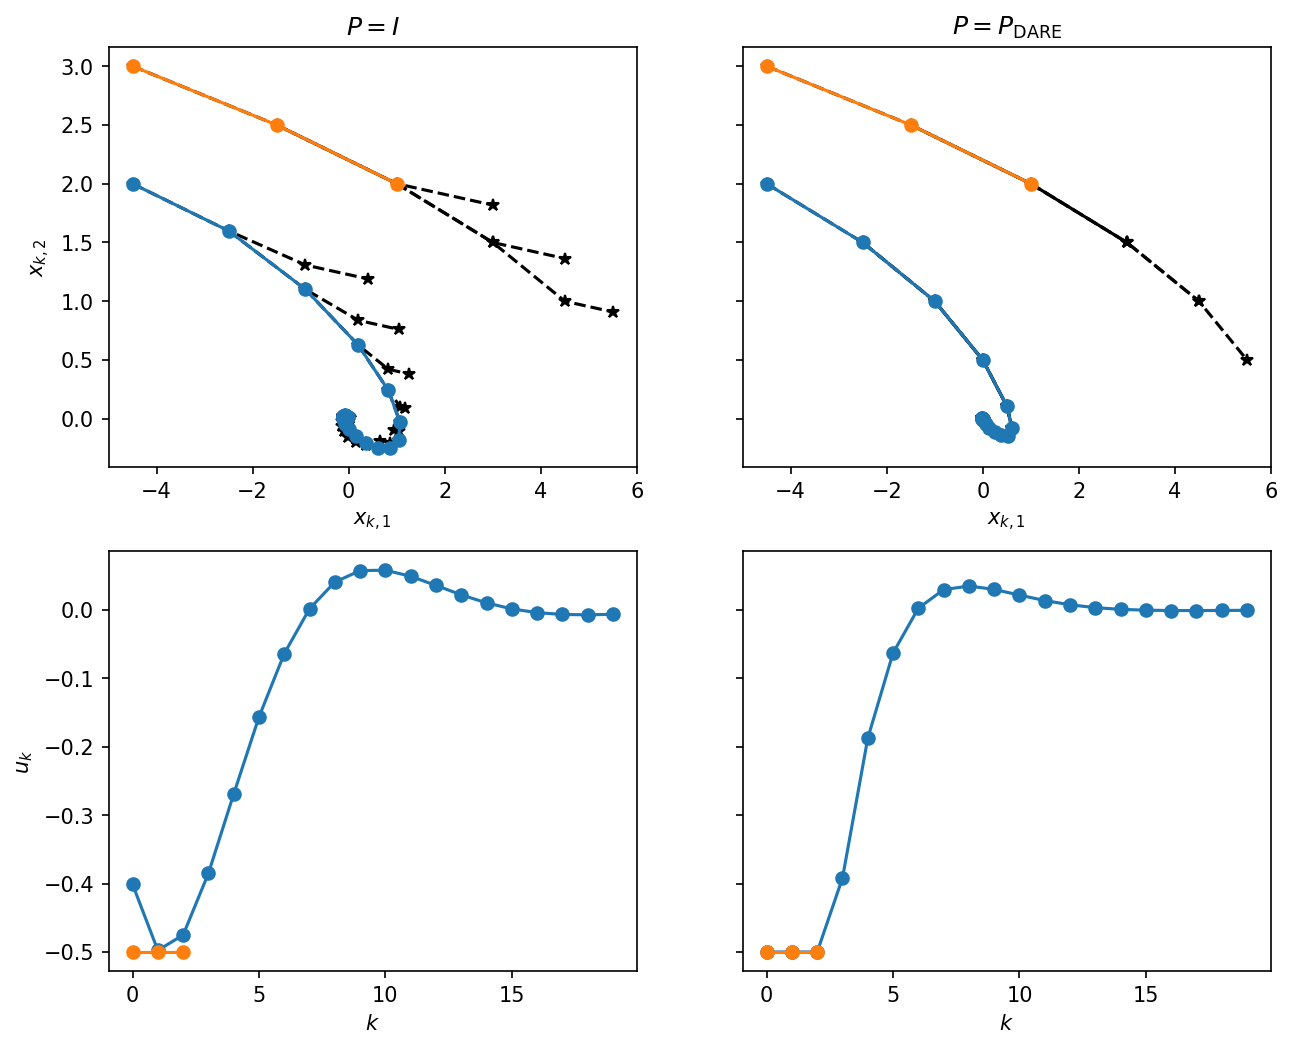
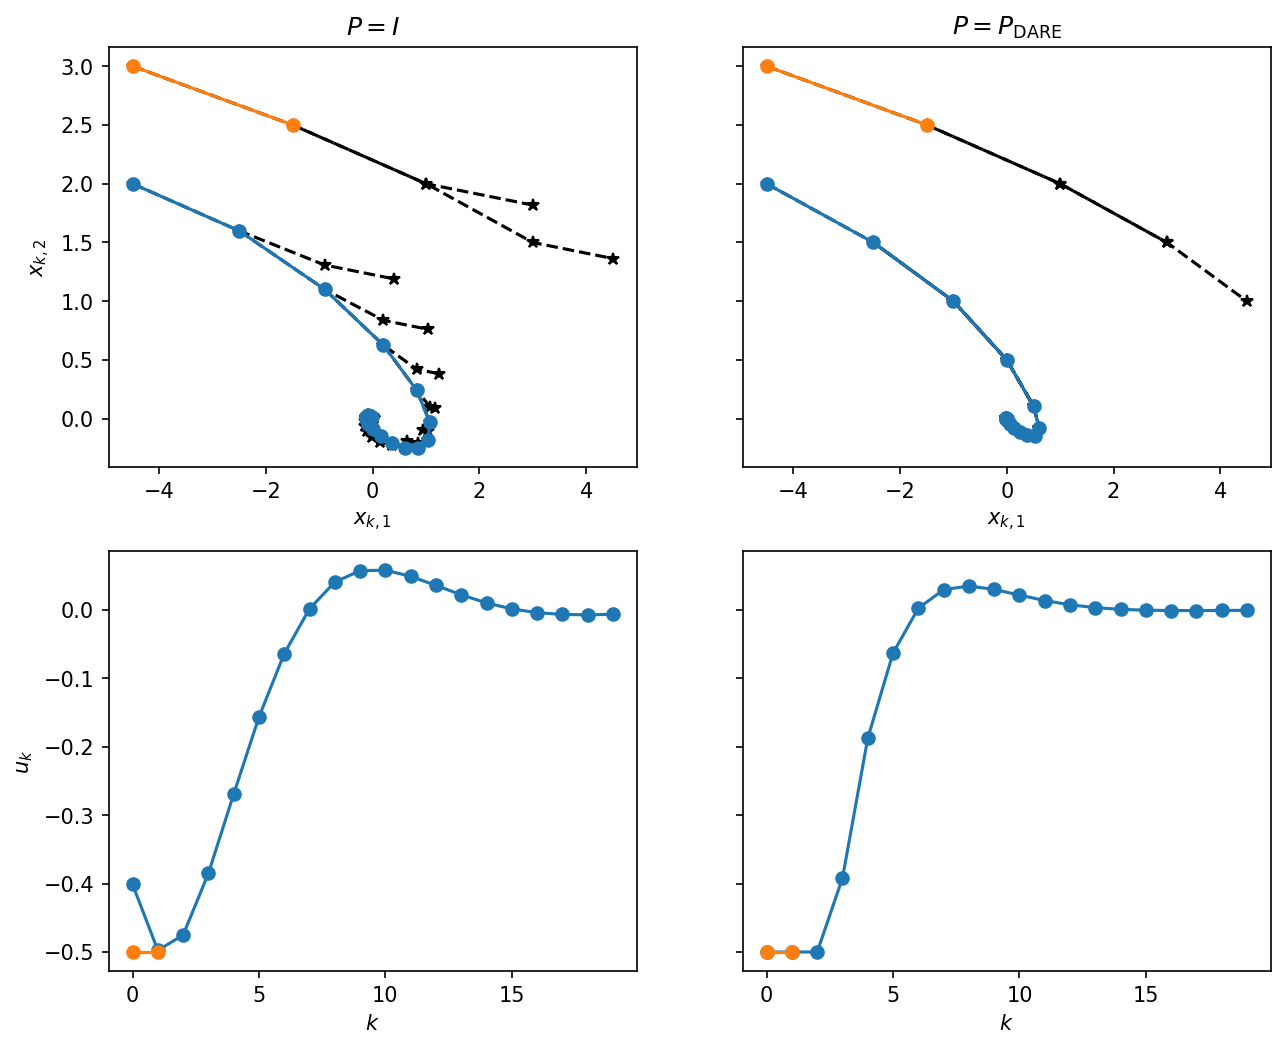
commit

diff --git a/hw3/problem4.py b/hw3/problem4.py
@@ -46,6 +46,7 @@ def do_mpc(
     N: int,         # prediction horizon
     rx: float,      # initial state inf-norm constraint
     ru: float,      # initial control inf-norm constraint
+    W: np.ndarray,  # terminal state inf-norm constraint
 ) -> tuple[np.ndarray, np.ndarray, str]:
     """Solve the MPC problem starting at state `x0`."""
     n, m = Q.shape[0], R.shape[0]
@@ -59,14 +60,17 @@ def do_mpc(
     constraints = [] # initialize constraints list
     cost += cp.quad_form(x_cvx[-1], P) # terminal cost
     constraints.append(x_cvx[0] == x0) # initial condition constraint
-    constraints.append(cp.norm(x_cvx[0]) <= rx) # intial state norm constraint
-    constraints.append(cp.norm(u_cvx[0]) <= ru) # initial control norm constraint
-    constraints.append(cp.norm(x_cvx[-1]) <= rx) # terminal state norm constraint
+    constraints.append(cp.norm(x_cvx[0],2) <= rx) # intial state norm constraint
+    constraints.append(cp.norm(u_cvx[0],2) <= ru) # initial control norm constraint
+    constraints.append(cp.norm(x_cvx[-1],2) <= rx) # terminal state norm constraint
+    constraints.append(cp.quad_form(x_cvx[-1], W) <= 1) # terminal state norm constraint
+    
     for k in range(N): # do the sum term
         cost += cp.quad_form(x_cvx[k], Q) + cp.quad_form(u_cvx[k], R) # step-wise cost argument
         constraints.append(x_cvx[k + 1] == A @ x_cvx[k] + B @ u_cvx[k]) # dynamics constraint
-        constraints.append(cp.norm(x_cvx[k]) <= rx) # state norm constraint
-        constraints.append(cp.norm(u_cvx[k]) <= ru) # control norm constraint
+        constraints.append(cp.norm(x_cvx[k],2) <= rx) # state norm constraint
+        constraints.append(cp.norm(u_cvx[k],2) <= ru) # control norm constraint
+        
         
     # END PART (a) ############################################################
 
@@ -112,6 +116,7 @@ if __name__ == "__main__":
     print(M)
     print("W = inv(M):")
     print(np.linalg.inv(M))
+    W = np.linalg.inv(M)
 
     num_points = 100
     X_T = generate_ellipsoid_points(M, num_points=num_points)
@@ -136,6 +141,7 @@ if __name__ == "__main__":
     x0 = np.array([0, -4.5])
     T = 15
     P = scipy.linalg.solve_continuous_lyapunov(A, Q)
+    # P = np.eye(n)
     print("P = ", P)
 
     # mpc loop
@@ -143,7 +149,7 @@ if __name__ == "__main__":
     x_mpc = np.zeros((T, N + 1, n))
     u_mpc = np.zeros((T, N, m))
     for t in range(T):
-        x_mpc[t], u_mpc[t], status = do_mpc(x, A, B.T, P, Q, R, N, rx, ru)
+        x_mpc[t], u_mpc[t], status = do_mpc(x, A, B.T, P, Q, R, N, rx, ru, W)
         if status == "infeasible":
             x_mpc = x_mpc[:t]
             u_mpc = u_mpc[:t]

diff --git a/hw3/mpc_feasibility.py b/hw3/mpc_feasibility.py
@@ -44,6 +44,8 @@ def do_mpc(
     constraints.append(cvx.norm(x_cvx[0], "inf") <= rx) # intial state inf norm constraint
     constraints.append(cvx.norm(u_cvx[0], "inf") <= ru) # initial control inf norm constraint
     constraints.append(cvx.norm(x_cvx[-1], "inf") <= rf) # terminal state inf norm constraint
+    constraints.append(cvx.norm(x_cvx[-1], "inf") <= rx) # terminal state inf norm constraint
+
     for k in range(N): # do the sum term
         cost += cvx.quad_form(x_cvx[k], Q) + cvx.quad_form(u_cvx[k], R) # step-wise cost argument
         constraints.append(x_cvx[k + 1] == A @ x_cvx[k] + B @ u_cvx[k]) # dynamics constraint
